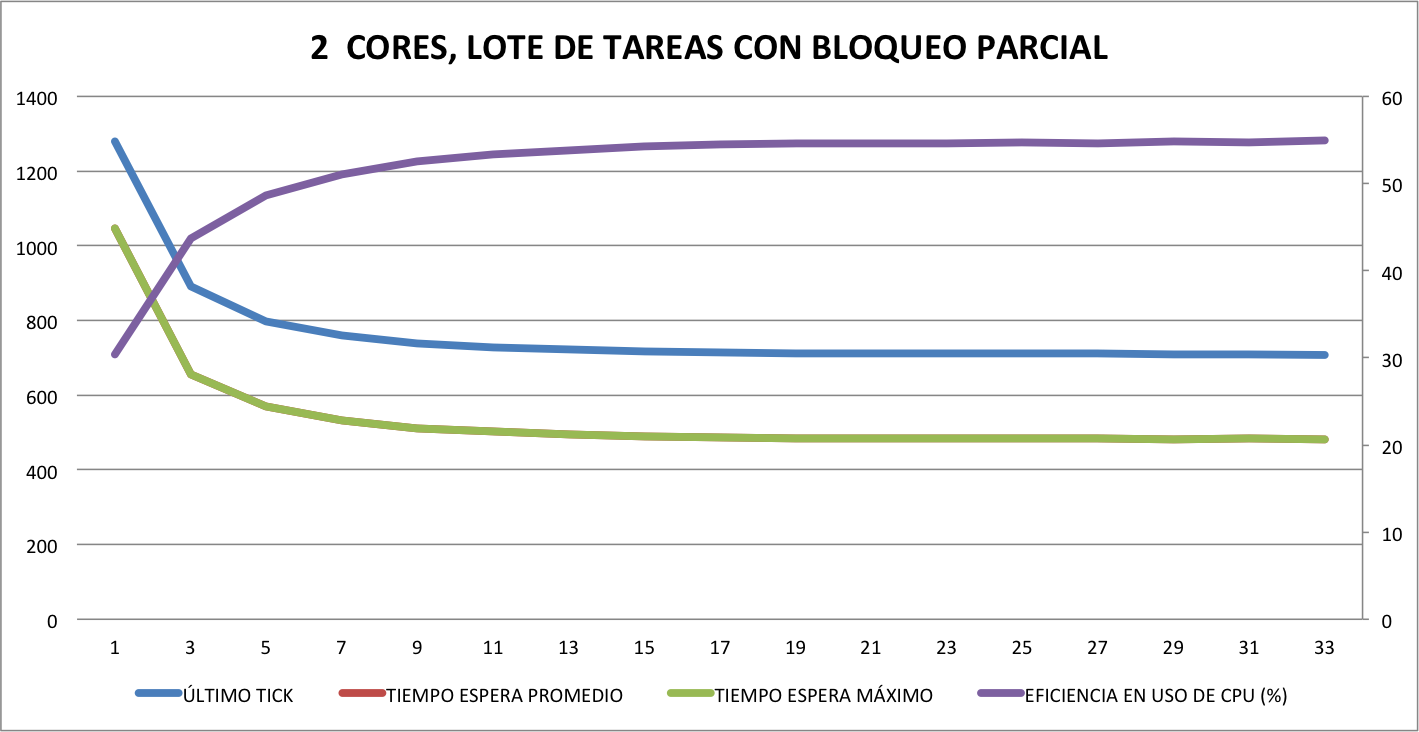
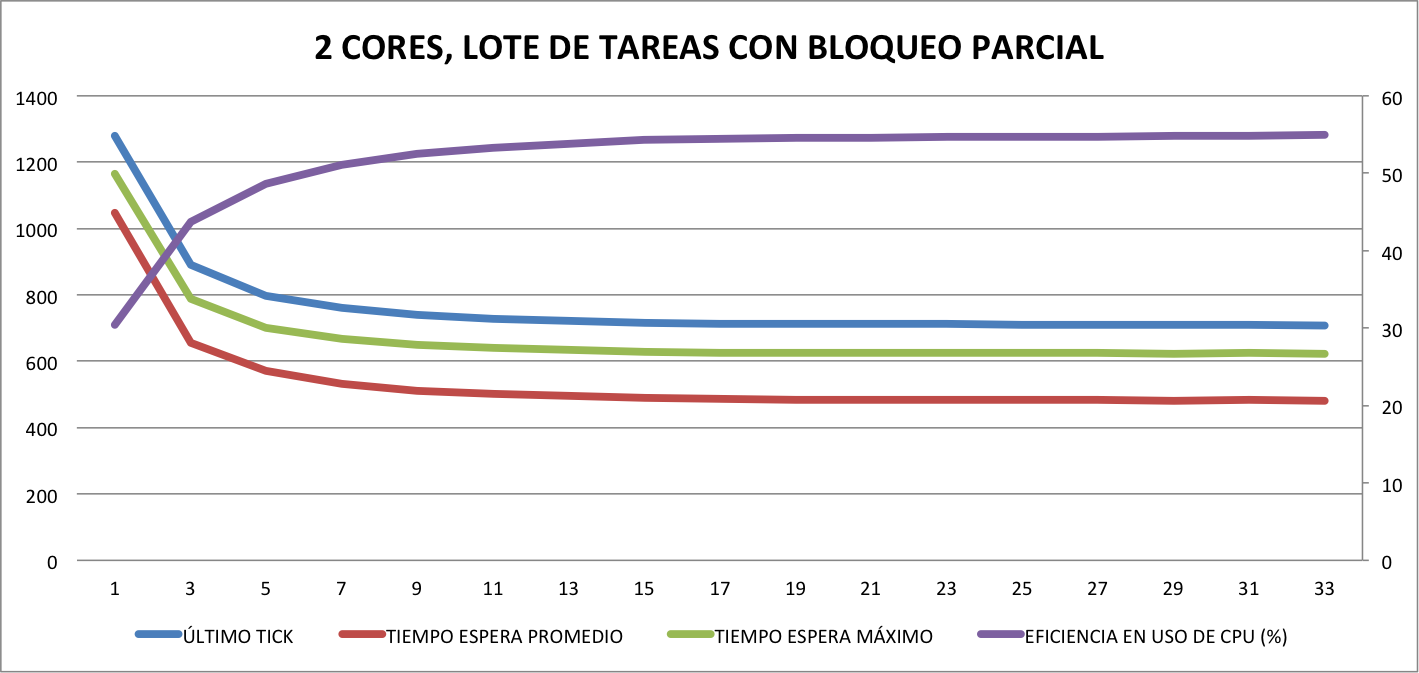
Arreglo gráficos

diff --git a/tp1/informe/desarrollo.tex b/tp1/informe/desarrollo.tex
@@ -240,9 +240,13 @@ Como mencionamos anteriormente, la duración del quantum resulta de vital import
 \noindent
 Utilizaremos dos métricas para evaluar la performance del scheduling, que intentaremos optimizar:
 \begin{itemize}
-	\item \textbf{Tiempo de Espera} es la suma del tiempo que un proceso pasa en la cola de ready. Indica cuánto tiempo tuvo que esperar un proceso para ejecutarse.
+	\item \textbf{Tiempo de Espera} es la suma del tiempo que un proceso pasa en la cola de listos. Indica cuánto tiempo tuvo que esperar un proceso para ejecutarse.
 	\item \textbf{Eficiencia de CPU} lo tomaremos como el tiempo que se estuvo utilizando el CPU para realizar procesamiento, en relación con el tiempo total que le insumió al sistema completar las tareas. Nos dará una medida de la eficiencia con la que están siendo utilizados los recursos. Es decir, contaremos los cambios de contexto y los ciclos IDLE como ineficientes, mientras que contaremos como ciclos productivos aquellos en los que las tareas se están ejecutando.
 \end{itemize}
+
+Tambi\'en tendremos en cuenta el tiempo de ejecuci\'on (el \'ultimo tick del reloj de la corrida). Para el tiempo de espera, analizaremos lo que sucede con el tiempo de espera promedio y con el valor m\'aximo.
+
+Intentaremos establecer el quantum \'optimo en distintos escenarios. Variaremos la cantidad de cores par q
 
 
 \subsection{Ejercicio 8}
